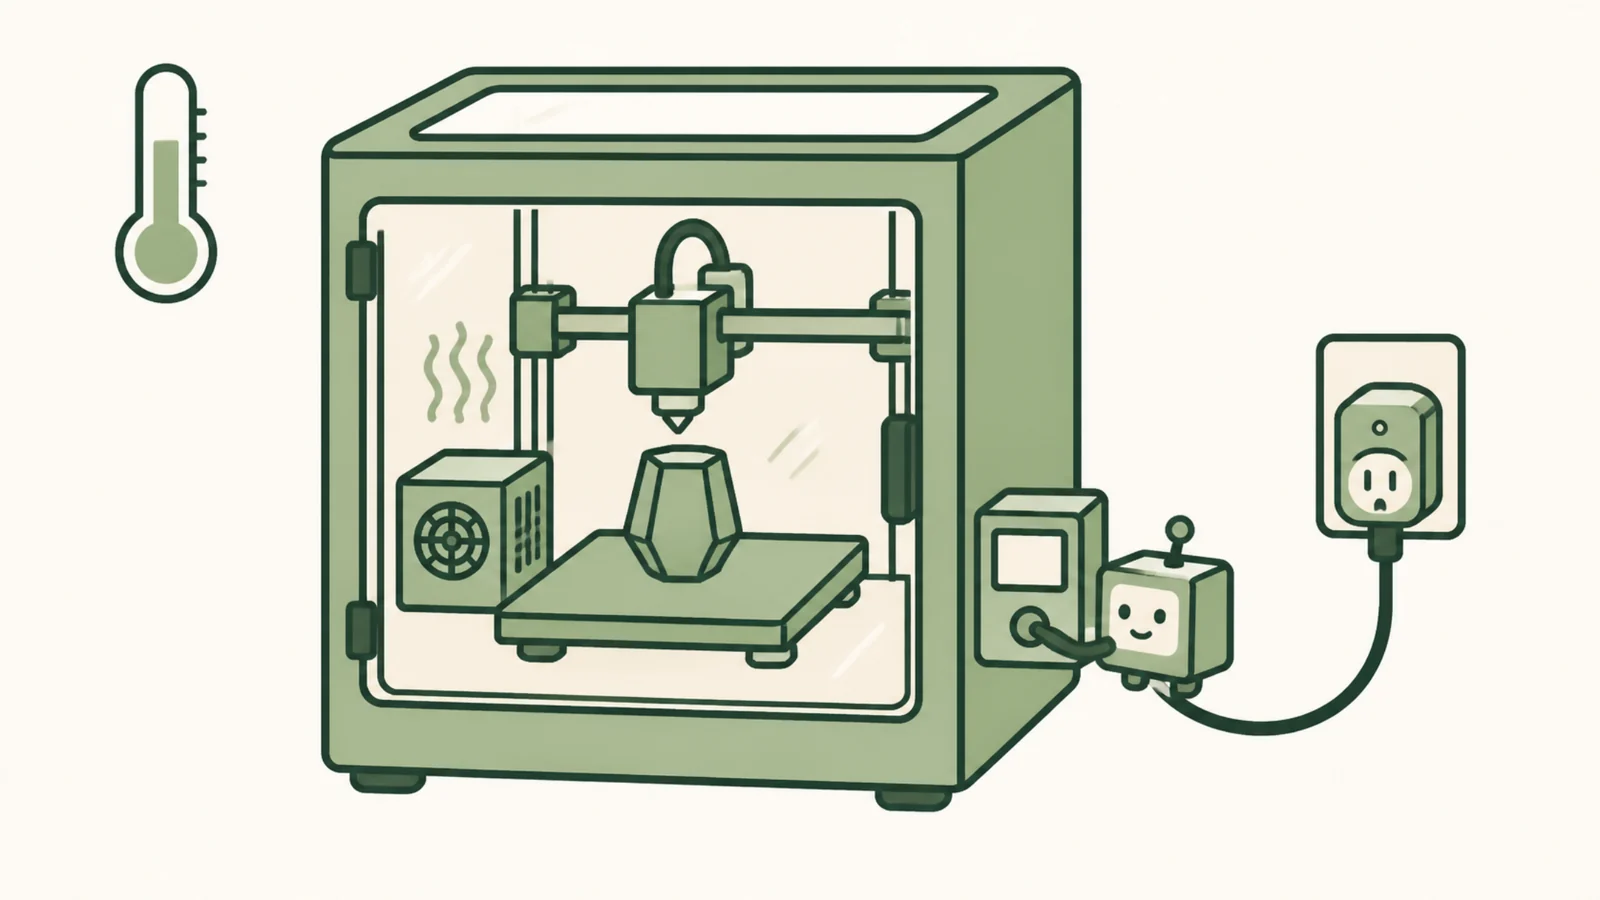
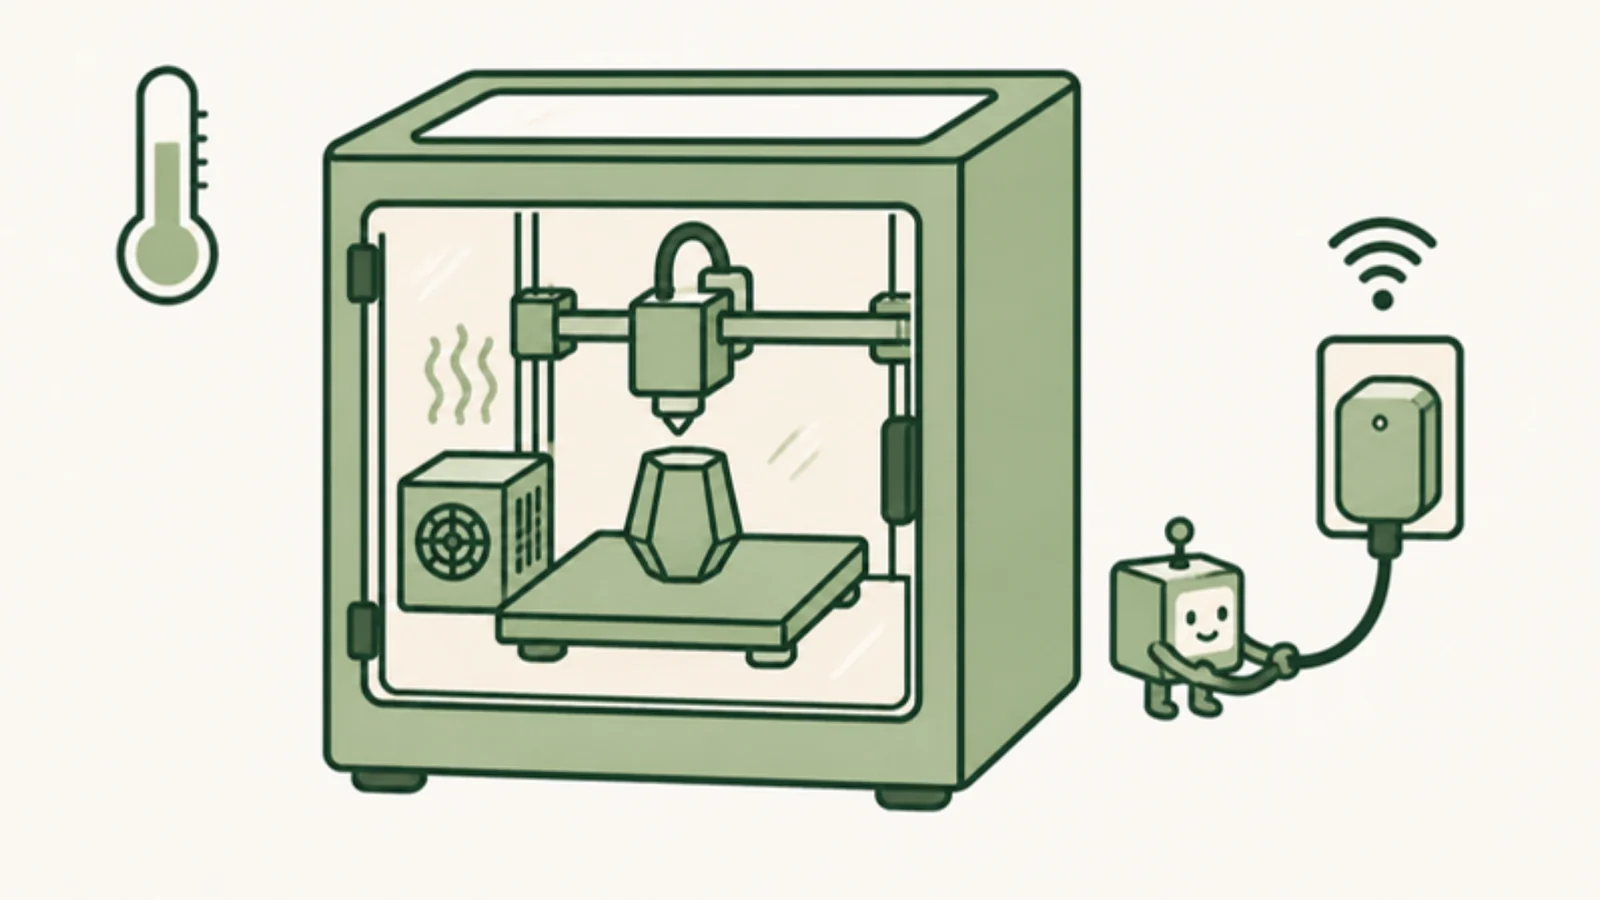
Revise chamber heater cover and refresh Writings pictures
The cover's robot now holds the plug's cable, with no side controller and a
Wi-Fi mark over the smart plug. The AI Trader card gets a Canva illustration
in the site's style, and the gate card shows its widget on a Mac desktop with a
menu bar and icons (source in assets/writing/source).

diff --git a/assets/writing/source/gate-opener-widget.html b/assets/writing/source/gate-opener-widget.html
@@ -1,0 +1,53 @@
+<!doctype html><html><head><meta charset="utf-8">
+<!-- Source for assets/writing/gate-opener-widget.webp: a generated illustration, not a real capture. The widget copies the Gate Opener Mac widget (docs/images/mac-widget.png in danielyaa5/gate-opener-widget) with its simulated data; the icon is that app's icon. Render at 1600x900 (e.g. Playwright screenshot) and save as WebP. -->
+<style>
+/* Sizes are in macOS points times --z, so the scene reads as a zoomed-in Mac desktop. */
+:root{--z:2.4px}
+html,body{margin:0;width:1600px;height:900px;overflow:hidden;font-family:"SF Pro Text",-apple-system,BlinkMacSystemFont,Inter,"Helvetica Neue",Arial,sans-serif;-webkit-font-smoothing:antialiased}
+.desk{position:relative;width:100%;height:100%;overflow:hidden;background:linear-gradient(180deg,#a9bea5 0%,#97ae94 45%,#7f9c84 100%)}
+.wall{position:absolute;inset:0;width:100%;height:100%}
+.menubar{position:absolute;left:0;right:0;top:0;height:calc(24*var(--z));display:flex;align-items:center;gap:calc(19*var(--z));padding:0 calc(14*var(--z));background:rgba(255,255,255,.5);backdrop-filter:blur(12px);font-size:calc(13*var(--z));color:#1d1d1f;box-sizing:border-box}
+.menubar b{font-weight:700}
+.menubar .right{margin-left:auto;display:flex;align-items:center;gap:calc(15*var(--z));font-weight:500}
+.menubar svg{display:block;height:calc(13*var(--z));width:auto}
+.widget{position:absolute;left:calc(150*var(--z));top:calc(100*var(--z));width:calc(188*var(--z));height:calc(188*var(--z));background:#fff;border-radius:calc(20*var(--z));box-shadow:0 calc(6*var(--z)) calc(18*var(--z)) rgba(20,40,28,.22),0 0 0 1px rgba(0,0,0,.05)}
+.widget>*{position:absolute}
+.label{left:calc(17*var(--z));top:calc(24.6*var(--z));font-size:calc(10.5*var(--z));line-height:1;font-weight:600;color:#808080}
+.refresh{left:calc(153*var(--z));top:calc(24.5*var(--z));width:calc(9.5*var(--z));height:calc(11*var(--z))}
+.status{left:calc(18*var(--z));top:calc(50.5*var(--z));width:calc(20*var(--z));height:calc(17*var(--z))}
+.state{left:calc(48.5*var(--z));top:calc(50.8*var(--z));font-size:calc(17*var(--z));line-height:1;font-weight:600;color:#262626;letter-spacing:-.01em}
+.seen{left:calc(16.5*var(--z));top:calc(76.2*var(--z));font-size:calc(10*var(--z));line-height:1;font-weight:600;color:#808080}
+.button{left:calc(16*var(--z));top:calc(145*var(--z));width:calc(156*var(--z));height:calc(27*var(--z));border-radius:calc(6.5*var(--z));background:#0088ff;color:#fff;display:flex;align-items:center;justify-content:center;gap:calc(6*var(--z));font-size:calc(10.5*var(--z));font-weight:600}
+.button svg{width:calc(13*var(--z));height:calc(11*var(--z))}
+.icons{position:absolute;right:calc(22*var(--z));top:calc(40*var(--z));display:flex;flex-direction:column;gap:calc(22*var(--z));width:calc(90*var(--z))}
+.icon{display:flex;flex-direction:column;align-items:center;gap:calc(4*var(--z))}
+.icon svg,.icon img{width:calc(64*var(--z));height:calc(64*var(--z));display:block;filter:drop-shadow(0 calc(1.5*var(--z)) calc(2*var(--z)) rgba(0,0,0,.18))}
+.icon span{font-size:calc(12*var(--z));font-weight:500;color:#fff;text-shadow:0 calc(.5*var(--z)) calc(2*var(--z)) rgba(0,0,0,.55);white-space:nowrap}
+</style></head><body><div class="desk">
+<svg class="wall" viewBox="0 0 1600 900" preserveAspectRatio="none" aria-hidden="true">
+<path d="M0 520 C220 440 420 470 640 520 S1080 600 1300 520 1520 470 1600 490 V900 H0Z" fill="#8fab90"/>
+<path d="M0 640 C260 560 520 600 760 660 S1180 720 1400 640 1560 610 1600 620 V900 H0Z" fill="#6f8f76"/>
+<path d="M0 770 C300 700 560 720 820 780 S1260 840 1600 760 V900 H0Z" fill="#557560"/>
+</svg>
+<div class="menubar"><b>Finder</b><span>File</span><span>Edit</span><span>View</span><span>Go</span><span>Window</span><span>Help</span>
+<span class="right">
+<svg viewBox="0 0 26 13" aria-hidden="true"><rect x=".75" y="1.25" width="21.5" height="10.5" rx="3" fill="none" stroke="#1d1d1f" stroke-opacity=".55" stroke-width="1.2"/><rect x="2.5" y="3" width="15" height="7" rx="1.6" fill="#1d1d1f"/><path d="M23.6 4.6v3.8c.9-.3 1.4-1 1.4-1.9s-.5-1.6-1.4-1.9Z" fill="#1d1d1f" fill-opacity=".55"/></svg>
+<svg viewBox="0 0 17 13" aria-hidden="true"><path d="M8.5 11.6 6.6 9.7a2.7 2.7 0 0 1 3.8 0Z" fill="#1d1d1f"/><path d="M4.4 7.5a5.8 5.8 0 0 1 8.2 0M2.1 5.2a9 9 0 0 1 12.8 0M.6 3.1a11.6 11.6 0 0 1 15.8 0" fill="none" stroke="#1d1d1f" stroke-width="1.5" stroke-linecap="round"/></svg>
+<svg viewBox="0 0 14 14" aria-hidden="true"><circle cx="5.8" cy="5.8" r="4.4" fill="none" stroke="#1d1d1f" stroke-width="1.5"/><path d="m9.1 9.1 3.8 3.8" stroke="#1d1d1f" stroke-width="1.7" stroke-linecap="round"/></svg>
+<svg viewBox="0 0 16 13" aria-hidden="true"><rect x=".9" y="1" width="14.2" height="4.6" rx="2.3" fill="none" stroke="#1d1d1f" stroke-width="1.3"/><circle cx="12.8" cy="3.3" r="1.5" fill="#1d1d1f"/><rect x=".9" y="7.4" width="14.2" height="4.6" rx="2.3" fill="none" stroke="#1d1d1f" stroke-width="1.3"/><circle cx="3.2" cy="9.7" r="1.5" fill="#1d1d1f"/></svg>
+<span>Sat Oct 24&nbsp;&nbsp;9:41 AM</span>
+</span></div>
+<div class="widget">
+<span class="label">Front Gate</span>
+<svg class="refresh" viewBox="0 0 19 22" aria-hidden="true"><path d="M9.5 4.6a7.6 7.6 0 1 0 7.2 5.2" fill="none" stroke="#1d1d1f" stroke-width="2.4" stroke-linecap="round"/><path d="M7.3 1.4 10.6 4.6 7.3 7.8" fill="none" stroke="#1d1d1f" stroke-width="2.4" stroke-linecap="round" stroke-linejoin="round"/></svg>
+<svg class="status" viewBox="0 0 40 34" aria-hidden="true"><path d="M2 33V5a4 4 0 0 1 4-4h28a4 4 0 0 1 4 4v28" fill="none" stroke="#34c759" stroke-opacity=".42" stroke-width="3"/><rect x="6.5" y="5.5" width="27" height="28.5" fill="#34c759"/><rect x="8.5" y="8" width="7" height="7" fill="#fff"/><rect x="16.5" y="8" width="7" height="7" fill="#fff"/><rect x="24.5" y="8" width="7" height="7" fill="#fff"/><rect x="16" y="27.5" width="8" height="2" fill="#fff" fill-opacity=".7"/></svg>
+<span class="state">Closed</span>
+<span class="seen">Seen 2 sec ago</span>
+<span class="button"><svg viewBox="0 0 24 20" aria-hidden="true"><path d="M2 19.5V4a2.5 2.5 0 0 1 2.5-2.5h15A2.5 2.5 0 0 1 22 4v15.5" fill="none" stroke="#fff" stroke-width="2.2" stroke-linecap="round"/><rect x="4.6" y="4.1" width="14.8" height="4.6" fill="#fff" fill-opacity=".72"/><rect x="10" y="5.8" width="4" height="1.3" fill="#0088ff"/></svg>Open Gate</span>
+</div>
+<div class="icons">
[1 lines of base64/hex data omitted]
+<div class="icon"><svg viewBox="0 0 64 64" aria-hidden="true"><defs><linearGradient id="f1" x1="0" y1="0" x2="0" y2="1"><stop offset="0" stop-color="#a9d8fd"/><stop offset="1" stop-color="#7cbef6"/></linearGradient></defs><path d="M5 16a4 4 0 0 1 4-4h14.5a4 4 0 0 1 2.9 1.2l2.3 2.3H55a4 4 0 0 1 4 4V50a4 4 0 0 1-4 4H9a4 4 0 0 1-4-4Z" fill="#5fa8e8"/><rect x="5" y="20.5" width="54" height="33.5" rx="4" fill="url(#f1)"/><rect x="5.5" y="21" width="53" height="1.6" rx=".8" fill="#d4ecff" opacity=".9"/></svg><span>Projects</span></div>
+<div class="icon"><svg viewBox="0 0 64 64" aria-hidden="true"><defs><linearGradient id="f2" x1="0" y1="0" x2="0" y2="1"><stop offset="0" stop-color="#a9d8fd"/><stop offset="1" stop-color="#7cbef6"/></linearGradient></defs><path d="M5 16a4 4 0 0 1 4-4h14.5a4 4 0 0 1 2.9 1.2l2.3 2.3H55a4 4 0 0 1 4 4V50a4 4 0 0 1-4 4H9a4 4 0 0 1-4-4Z" fill="#5fa8e8"/><rect x="5" y="20.5" width="54" height="33.5" rx="4" fill="url(#f2)"/><rect x="5.5" y="21" width="53" height="1.6" rx=".8" fill="#d4ecff" opacity=".9"/></svg><span>Screenshots</span></div>
+</div>
+</div></body></html>

diff --git a/index.html b/index.html
@@ -162,10 +162,10 @@
       <section class="writing" id="writing" aria-labelledby="writing-title">
         <h2 id="writing-title">Writings</h2>
         <div class="writing-grid">
-          <article class="writing-card"><h3><a href="blog/k1-max-chamber-heater.html">Teaching my K1 Max to turn on its own chamber heater</a></h3><p>How a smart plug, a Fingerbot and a few Klipper macros let my K1 Max heat and hold its own chamber for ASA prints.</p><img class="writing-thumb" src="assets/writing/k1-max-chamber-heater.webp" width="1600" height="900" alt="Illustration of an enclosed 3D printer with a heater inside, a small controller with a button-pressing robot, and a smart plug" loading="lazy"><a class="writing-link" href="blog/k1-max-chamber-heater.html">Read article →</a></article>
-          <article class="writing-card"><h3><a href="https://github.com/danielyaa5/ai-trader-writeup">Building an AI Trader With Deterministic Risk Controls</a></h3><p>I built an experimental trading system that uses one model to propose trades, two others to review them, and Python to enforce the rules between those steps.</p><img class="writing-thumb" src="assets/writing/ai-trader-dashboard.webp" width="800" height="450" alt="The AI trader demo dashboard with a fictional $100,000 portfolio" loading="lazy"><a class="writing-link" href="https://github.com/danielyaa5/ai-trader-writeup">Read article →</a></article>
+          <article class="writing-card"><h3><a href="blog/k1-max-chamber-heater.html">Teaching my K1 Max to turn on its own chamber heater</a></h3><p>How a smart plug, a Fingerbot and a few Klipper macros let my K1 Max heat and hold its own chamber for ASA prints.</p><img class="writing-thumb" src="assets/writing/k1-max-chamber-heater.webp" width="1600" height="900" alt="Illustration of an enclosed 3D printer with a heater inside, a small robot holding the end of a power cable, and a smart plug with a Wi-Fi signal" loading="lazy"><a class="writing-link" href="blog/k1-max-chamber-heater.html">Read article →</a></article>
+          <article class="writing-card"><h3><a href="https://github.com/danielyaa5/ai-trader-writeup">Building an AI Trader With Deterministic Risk Controls</a></h3><p>I built an experimental trading system that uses one model to propose trades, two others to review them, and Python to enforce the rules between those steps.</p><img class="writing-thumb" src="assets/writing/ai-trader.webp" width="1600" height="900" alt="Illustration of three small robots at a stock chart: one proposes a trade, two review it, and a shield with a padlock stands for fixed rules" loading="lazy"><a class="writing-link" href="https://github.com/danielyaa5/ai-trader-writeup">Read article →</a></article>
           <article class="writing-card"><h3><a href="blog/agent-qa-separate-macos-account.html">Giving my AI agent its own Mac account for QA</a></h3><p>How I use a second macOS account to give an AI agent its own desktop for app testing while I keep working.</p><img class="writing-thumb" src="assets/writing/screen-sharing-recursion.webp" width="1600" height="900" alt="Illustration of Screen Sharing windows nested inside each other, switching between the main and QA accounts" loading="lazy"><a class="writing-link" href="blog/agent-qa-separate-macos-account.html">Read article →</a></article>
-          <article class="writing-card"><h3><a href="https://github.com/danielyaa5/gate-opener-widget">A widget for my gate</a></h3><p>Build notes on turning a broken 30-year-old gate into a smart gate I can open from Mac and iPhone widgets, with a camera that checks whether it's open.</p><img class="writing-thumb" src="assets/writing/gate-opener-widget.webp" width="800" height="450" alt="The Gate Opener desktop widget showing Closed and an Open Gate button, with simulated data" loading="lazy"><a class="writing-link" href="https://github.com/danielyaa5/gate-opener-widget">Read article →</a></article>
+          <article class="writing-card"><h3><a href="https://github.com/danielyaa5/gate-opener-widget">A widget for my gate</a></h3><p>Build notes on turning a broken 30-year-old gate into a smart gate I can open from Mac and iPhone widgets, with a camera that checks whether it's open.</p><img class="writing-thumb" src="assets/writing/gate-opener-widget.webp" width="1600" height="900" alt="Illustration of a Mac desktop with a menu bar, desktop icons and the Gate Opener widget showing Closed and an Open Gate button, with simulated data" loading="lazy"><a class="writing-link" href="https://github.com/danielyaa5/gate-opener-widget">Read article →</a></article>
         </div>
       </section>
     </main>

diff --git a/blog/k1-max-chamber-heater.html b/blog/k1-max-chamber-heater.html
@@ -22,7 +22,7 @@
     <header class="site-header"><a class="identity" href="../" aria-label="Daniel, home">Daniel</a><nav aria-label="Main navigation"><a href="../#work">Work</a><a href="./" aria-current="page">Blog</a><a href="https://github.com/danielyaa5">GitHub</a></nav></header>
     <main id="content"><article class="blog-article"><header class="article-header"><p class="eyebrow">Notes on 3D printing</p><h1>Teaching my K1 Max to turn on its own chamber heater</h1><p class="article-meta">Daniel · <time datetime="2026-10-23">October 23, 2026</time></p></header><div class="article-body"><p>ASA wants a warm chamber. My Creality K1 Max has an enclosure, a chamber temperature sensor and a chamber fan, but no chamber heater. Left to the bed, the air warms up slowly. So I added a heater.</p>
 <figure class="article-figure">
-<img src="../assets/writing/k1-max-chamber-heater.webp" width="1600" height="900" alt="Illustration of an enclosed 3D printer with a heater inside, a small controller on its side with a button-pressing robot, and a smart plug in the wall">
+<img src="../assets/writing/k1-max-chamber-heater.webp" width="1600" height="900" alt="Illustration of an enclosed 3D printer with a heater inside, a small robot holding the end of a power cable, and a smart plug in the wall with a Wi-Fi signal">
 <figcaption>The setup, more or less. The real Fingerbot doesn't have a face.</figcaption>
 </figure>
 <p>The heater was the easy part. The hard part was its start button, because my printer doesn't have fingers.</p>
